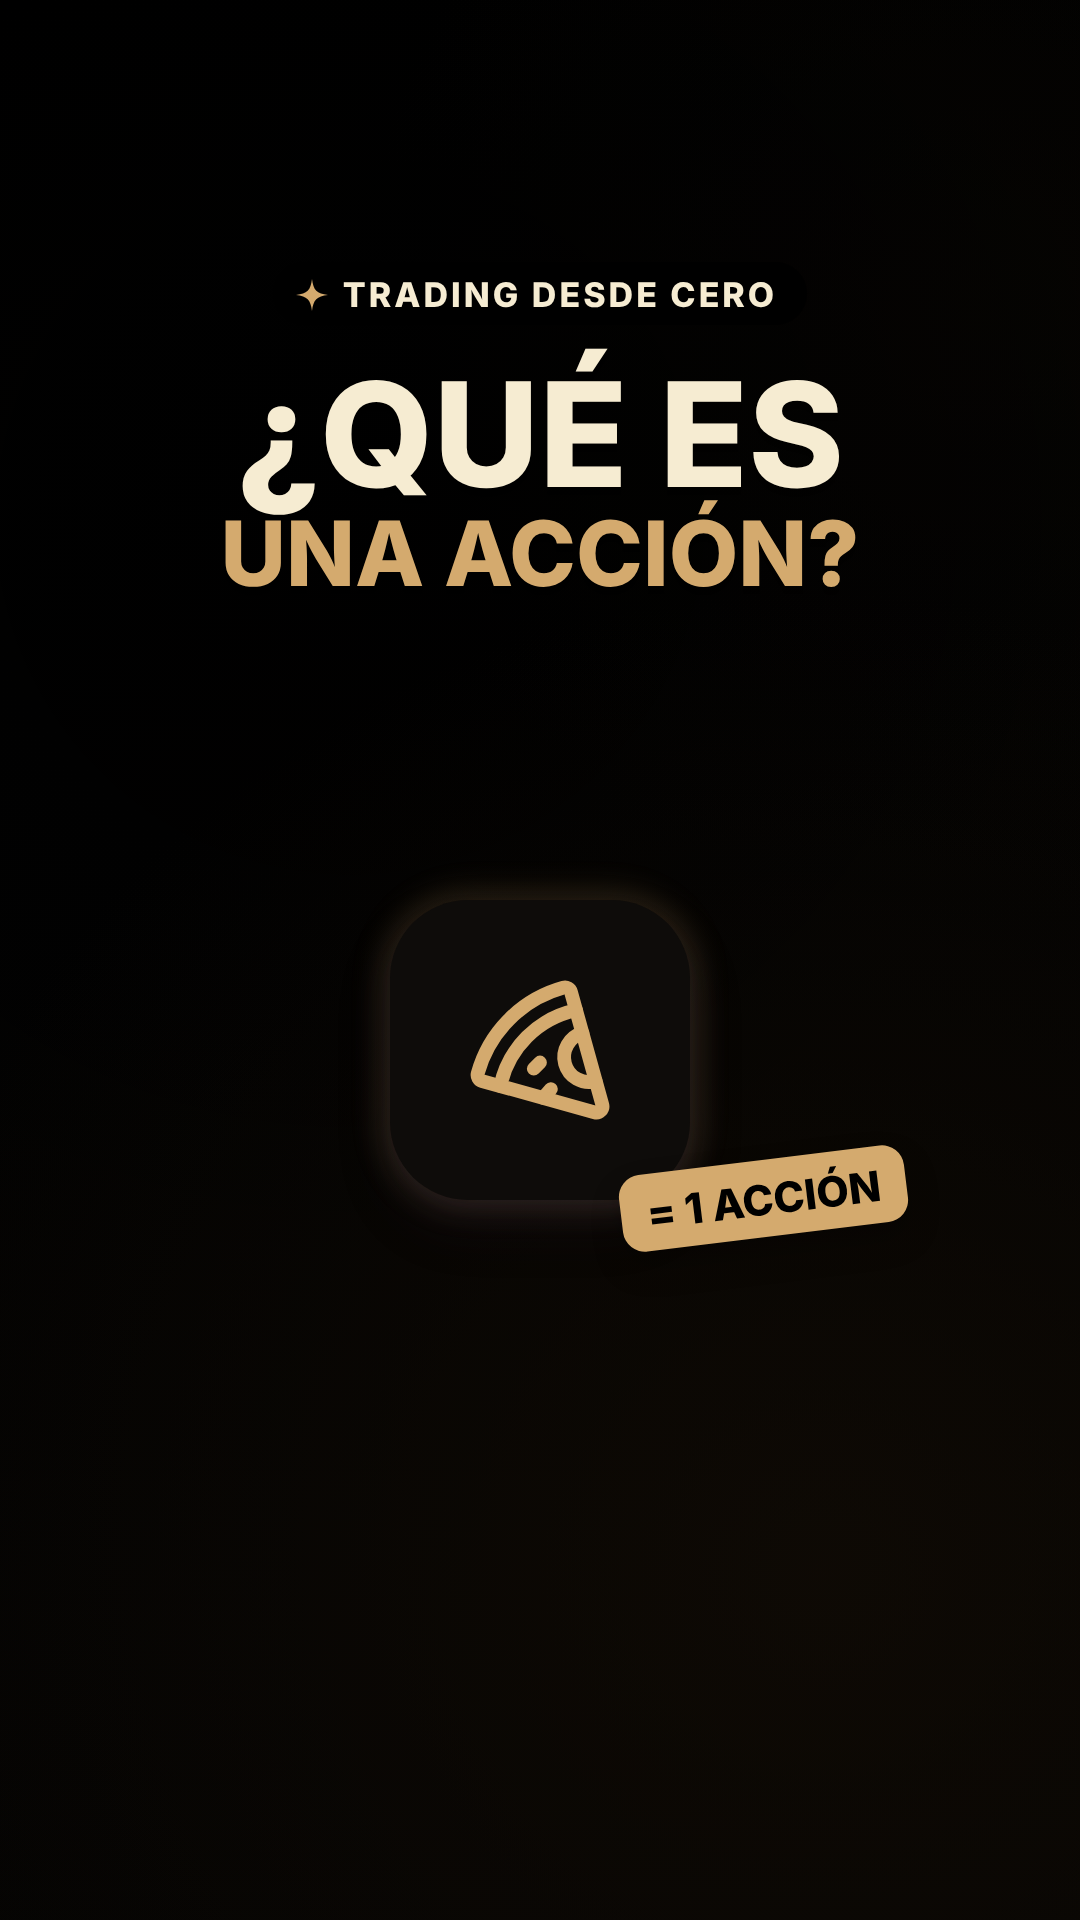
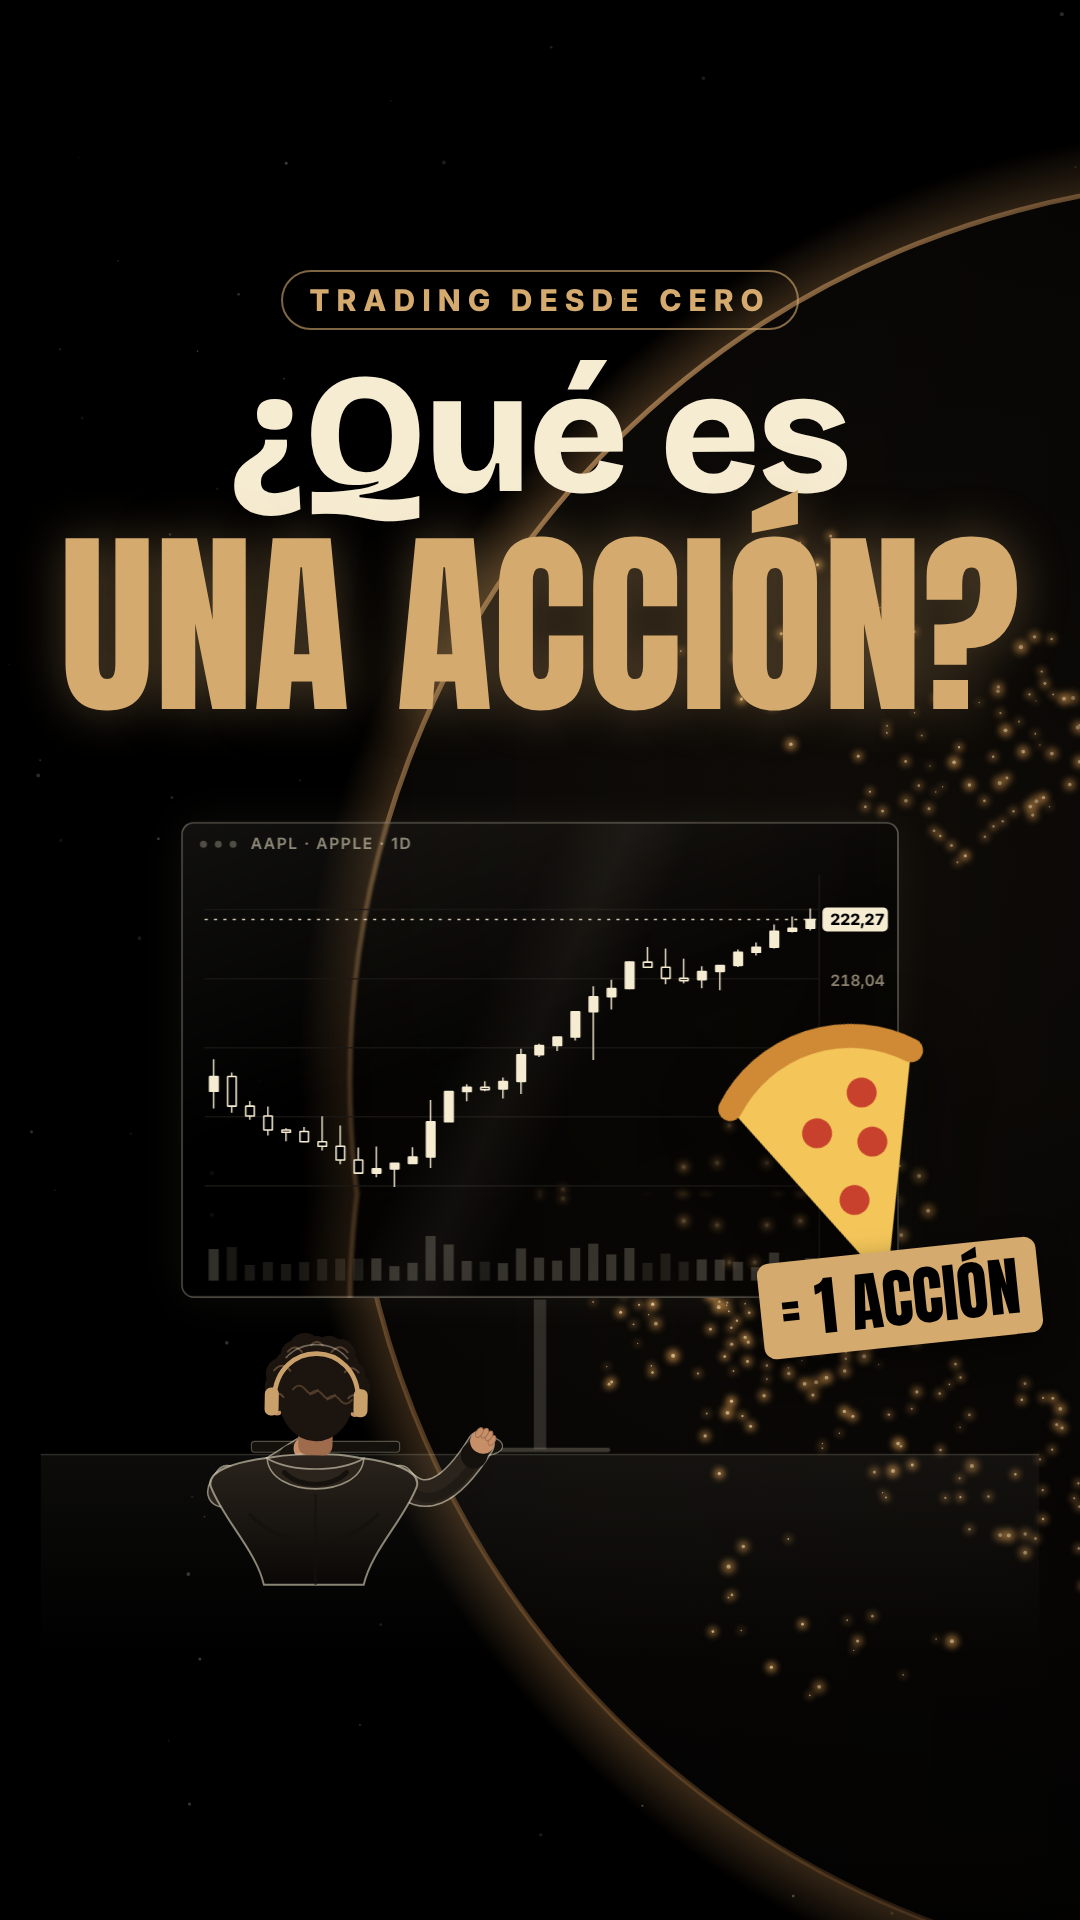
Reel acción: cámaras distintas en sube/baja, Comenta GRÁFICA, subtítulos más grandes, cierre más lento y portada propia (previa)
Claude-Session: https://claude.ai/code/session_01Usms2r7kyNP6cbVRcrKfdD

diff --git a/reels/que-es-una-accion/proyecto/src/propias/PortadaPropia.tsx b/reels/que-es-una-accion/proyecto/src/propias/PortadaPropia.tsx
@@ -1,0 +1,46 @@
+// Portada del reel con el mismo mundo del vídeo: planeta de fondo, el protagonista frente a su monitor de
+// cristal con velas de Apple, y una porción de pizza que sale de la pantalla con "= 1 ACCIÓN".
+import React from "react";
+import { AbsoluteFill } from "remotion";
+import "../motor/fuentes";
+import { C } from "../motor/actual";
+import { F, alfa } from "../motor/estilos";
+import { Planeta } from "./Planeta";
+import { Escritorio } from "./Escritorio";
+import { GraficoVelas, serieVelas } from "./Velas";
+import { CLAVE, ORO, VIVO, encajar } from "./mg";
+
+const velas = serieVelas(34, 21, (k) => (k < 10 ? -0.5 : 0.9), 210, 1.4);
+
+const Porcion: React.FC = () => (
+  <svg width={300} height={300} viewBox="-150 -150 300 300" style={{ position: "absolute", left: 700, top: 1020, transform: "rotate(-18deg)", filter: "drop-shadow(0 20px 30px rgba(0,0,0,0.6))" }}>
+    <path d="M0 120 L-95 -95 A135 135 0 0 1 95 -95 Z" fill="#F4C65A" />
+    <path d="M-95 -95 A135 135 0 0 1 95 -95" fill="none" stroke="#D08A35" strokeWidth={24} strokeLinecap="round" />
+    {[[-20, -45], [30, -20], [-5, 30], [35, -70]].map(([x, y], k) => (
+      <circle key={k} cx={x} cy={y} r={15} fill="#C7412C" />
+    ))}
+  </svg>
+);
+
+export const PortadaPropia: React.FC = () => {
+  const tam = encajar("UNA ACCIÓN?", 960, 230, CLAVE);
+  return (
+    <AbsoluteFill style={{ background: "#000" }}>
+      <Planeta />
+      <AbsoluteFill style={{ transform: "translateY(560px) scale(0.78)", transformOrigin: "540px 262px" }}>
+        <Escritorio dur={1} cabecera="AAPL · APPLE · 1D" foco={[[0, 640]]} inclina3d={0}>
+          <GraficoVelas velas={velas} marco={{ x0: 110, x1: 990, y0: 330, y1: 850 }} entra={() => -100} letra={20} vivo={false} />
+        </Escritorio>
+      </AbsoluteFill>
+      <Porcion />
+      <div style={{ position: "absolute", left: 760, top: 1250, transform: "rotate(-6deg)", fontFamily: CLAVE, fontSize: 64, color: C.acentoTexto, background: ORO, padding: "0 20px", borderRadius: 12, boxShadow: "0 12px 30px rgba(0,0,0,0.5)" }}>= 1 ACCIÓN</div>
+      <div style={{ position: "absolute", left: 0, right: 0, top: 270, display: "flex", justifyContent: "center" }}>
+        <div style={{ fontFamily: F.texto, fontWeight: 800, fontSize: 30, letterSpacing: 7, color: ORO, border: `2px solid ${alfa(ORO, 0.6)}`, borderRadius: 40, padding: "10px 26px" }}>TRADING DESDE CERO</div>
+      </div>
+      <div style={{ position: "absolute", left: 0, right: 0, top: 350, textAlign: "center", lineHeight: 1 }}>
+        <div style={{ fontFamily: VIVO, fontWeight: 800, fontSize: 170, color: C.texto, letterSpacing: -3 }}>¿Qué es</div>
+        <div style={{ fontFamily: CLAVE, fontSize: tam, color: ORO, marginTop: 6, textShadow: `0 0 50px ${alfa(ORO, 0.35)}` }}>UNA ACCIÓN?</div>
+      </div>
+    </AbsoluteFill>
+  );
+};

diff --git a/reels/que-es-una-accion/proyecto/src/propias/Graficas.tsx b/reels/que-es-una-accion/proyecto/src/propias/Graficas.tsx
@@ -212,8 +212,15 @@ const Precio: React.FC<PropsEscena> = ({ p, b, dur }) => {
     const flash = !sube ? Math.max(0, 1 - Math.abs(f - bA) / 10) : 0;
     const vineta = !sube && bE >= 0 ? 0.5 * Math.max(0, Math.sin(Math.min(Math.PI, ((f - bE) / 24) * Math.PI))) * (f >= bE ? 1 : 0) : 0;
     const g = temblor(f, sube ? bD : bE, sube ? 8 : 14);
+    // cámara distinta en cada una para que las gráficas seguidas no se vean iguales:
+    // sube = gira de lado y avanza hacia la punta; baja = picado con el plano torcido que se endereza
+    const cam = pr(f, 0, Math.max(30, dur), Easing.inOut(Easing.cubic));
+    const camara = sube
+      ? `rotateY(${16 - 20 * cam}deg) rotateX(${6 - 6 * cam}deg) scale(${0.96 + 0.1 * cam})`
+      : `rotateX(${14 - 14 * cam}deg) rotateZ(${-4 + 5 * cam}deg) scale(${1.08 - 0.06 * cam})`;
     return (
-      <AbsoluteFill style={{ transform: `translate(${g.x}px,${g.y}px)` }}>
+      <AbsoluteFill style={{ perspective: 1500 }}>
+      <AbsoluteFill style={{ transform: `translate(${g.x}px,${g.y}px) ${camara}`, transformOrigin: sube ? "820px 560px" : "620px 820px" }}>
         <Rejilla op={0.6} color={sube ? ORO : ROJO} />
         <Ejes p={1} />
         <svg width={1080} height={1920} style={{ position: "absolute", left: 0, top: 0 }}>
@@ -249,6 +256,7 @@ const Precio: React.FC<PropsEscena> = ({ p, b, dur }) => {
             <AbsoluteFill style={{ top: -400, bottom: -400, background: alfa(ORO, 0.18 * flash) }} />
           </>
         )}
+      </AbsoluteFill>
       </AbsoluteFill>
     );
   }
@@ -573,8 +581,11 @@ const Proximo: React.FC<PropsEscena> = ({ b, dur }) => {
       </div>
       {boton > 0 && (
         <div style={{ position: "absolute", left: 470, right: 20, top: 1185 - bote, display: "flex", justifyContent: "center", transform: `scale(${boton})` }}>
-          <div style={{ display: "flex", alignItems: "center", gap: 12, border: `2px solid ${ORO}`, color: ORO, fontFamily: F.texto, fontWeight: 800, fontSize: 26, letterSpacing: 3, padding: "10px 22px", borderRadius: 40 }}>
-            <Icono nombre="bell-ring" tam={30} color={ORO} /> SÍGUEME
+          <div style={{ display: "flex", flexDirection: "column", alignItems: "center", gap: 6 }}>
+            <div style={{ display: "flex", alignItems: "center", gap: 12, background: ORO, color: C.acentoTexto, fontFamily: F.texto, fontWeight: 800, fontSize: 26, letterSpacing: 2, padding: "8px 20px 8px 16px", borderRadius: 40 }}>
+              <Icono nombre="message-circle" tam={30} color={C.acentoTexto} /> COMENTA <span style={{ fontFamily: CLAVE, fontSize: 34, letterSpacing: 1 }}>GRÁFICA</span>
+            </div>
+            <div style={{ fontFamily: F.texto, fontWeight: 600, fontSize: 22, color: C.suave }}>y te aviso cuando salga</div>
           </div>
         </div>
       )}

diff --git a/reels/que-es-una-accion/proyecto/src/propias/Cierre.tsx b/reels/que-es-una-accion/proyecto/src/propias/Cierre.tsx
@@ -7,11 +7,11 @@ import { AbsoluteFill, Easing, OffthreadVideo, Sequence, interpolate, staticFile
 import { Planeta } from "./Planeta";
 
 /** Fotogramas de la entrada al planeta (encima del final de la última escena) y del logo (después). */
-export const TRANSICION = 30;
-export const LOGO = 130;
+export const TRANSICION = 60;
+export const LOGO = 170;
 export const CIERRE = LOGO;
 /** Fotograma de la transición en que empieza el vídeo del logo. */
-export const ENTRA_LOGO = 22;
+export const ENTRA_LOGO = 44;
 
 /** Centro de la Tierra dentro del aro izquierdo del logo (sobre 1080×1920). */
 const TIERRA = { x: 412, y: 750 };
@@ -23,14 +23,14 @@ const cl = { extrapolateLeft: "clamp", extrapolateRight: "clamp" } as const;
 export const Cierre: React.FC = () => {
   const f = useCurrentFrame();
   // 1) la escena se apaga y la cámara entra en el planeta: crece y se centra
-  const apaga = interpolate(f, [0, 16], [0, 1], { ...cl, easing: Easing.inOut(Easing.cubic) });
+  const apaga = interpolate(f, [0, 32], [0, 1], { ...cl, easing: Easing.inOut(Easing.cubic) });
   const entra = interpolate(f, [0, TRANSICION], [0, 1], { ...cl, easing: Easing.in(Easing.cubic) });
   const cx = PLANETA.x + (540 - PLANETA.x) * entra,
     cy = PLANETA.y + (960 - PLANETA.y) * entra,
     r = PLANETA.r * (1 + 0.5 * entra);
   // 2) el logo aparece muy ampliado sobre su Tierra y la cámara se aleja
-  const logo = interpolate(f, [ENTRA_LOGO, ENTRA_LOGO + 10], [0, 1], cl);
-  const aleja = interpolate(f, [ENTRA_LOGO, ENTRA_LOGO + 46], [0, 1], { ...cl, easing: Easing.out(Easing.cubic) });
+  const logo = interpolate(f, [ENTRA_LOGO, ENTRA_LOGO + 20], [0, 1], cl);
+  const aleja = interpolate(f, [ENTRA_LOGO, ENTRA_LOGO + 92], [0, 1], { ...cl, easing: Easing.out(Easing.cubic) });
   const z = ZOOM_INICIAL + (1 - ZOOM_INICIAL) * aleja;
   // la Tierra del logo empieza en el centro de la pantalla y vuelve a su sitio
   const tx = (540 - TIERRA.x) * (1 - aleja),

diff --git a/reels/que-es-una-accion/proyecto/src/Root.tsx b/reels/que-es-una-accion/proyecto/src/Root.tsx
@@ -2,7 +2,7 @@ import React from "react";
 import { AbsoluteFill, Composition, Img, Still } from "remotion";
 import { FPS } from "./motor/constantes";
 import { TOTAL, resumen } from "./motor/linea";
-import { Portada } from "./Portada";
+import { PortadaPropia as Portada } from "./propias/PortadaPropia";
 import { Reel } from "./Reel";
 import { CIERRE } from "./propias/Cierre";
 

diff --git a/reels/que-es-una-accion/proyecto/src/propias/SubArriba.tsx b/reels/que-es-una-accion/proyecto/src/propias/SubArriba.tsx
@@ -11,7 +11,7 @@ import { CLAVE, PRO, VIVO } from "./mg";
 
 /** Color de la caja de selección (el dorado de la marca). */
 const MARCO = C.acento;
-const TAM = 50;
+const TAM = 55;
 /** Letra de las palabras normales del subtítulo. */
 /** Internet Friends con tildes, ñ, ¿ y ¡ añadidas (public/fuentes/internet-friends-es.ttf). */
 const SUB_FUENTE = "BRSubIF";
